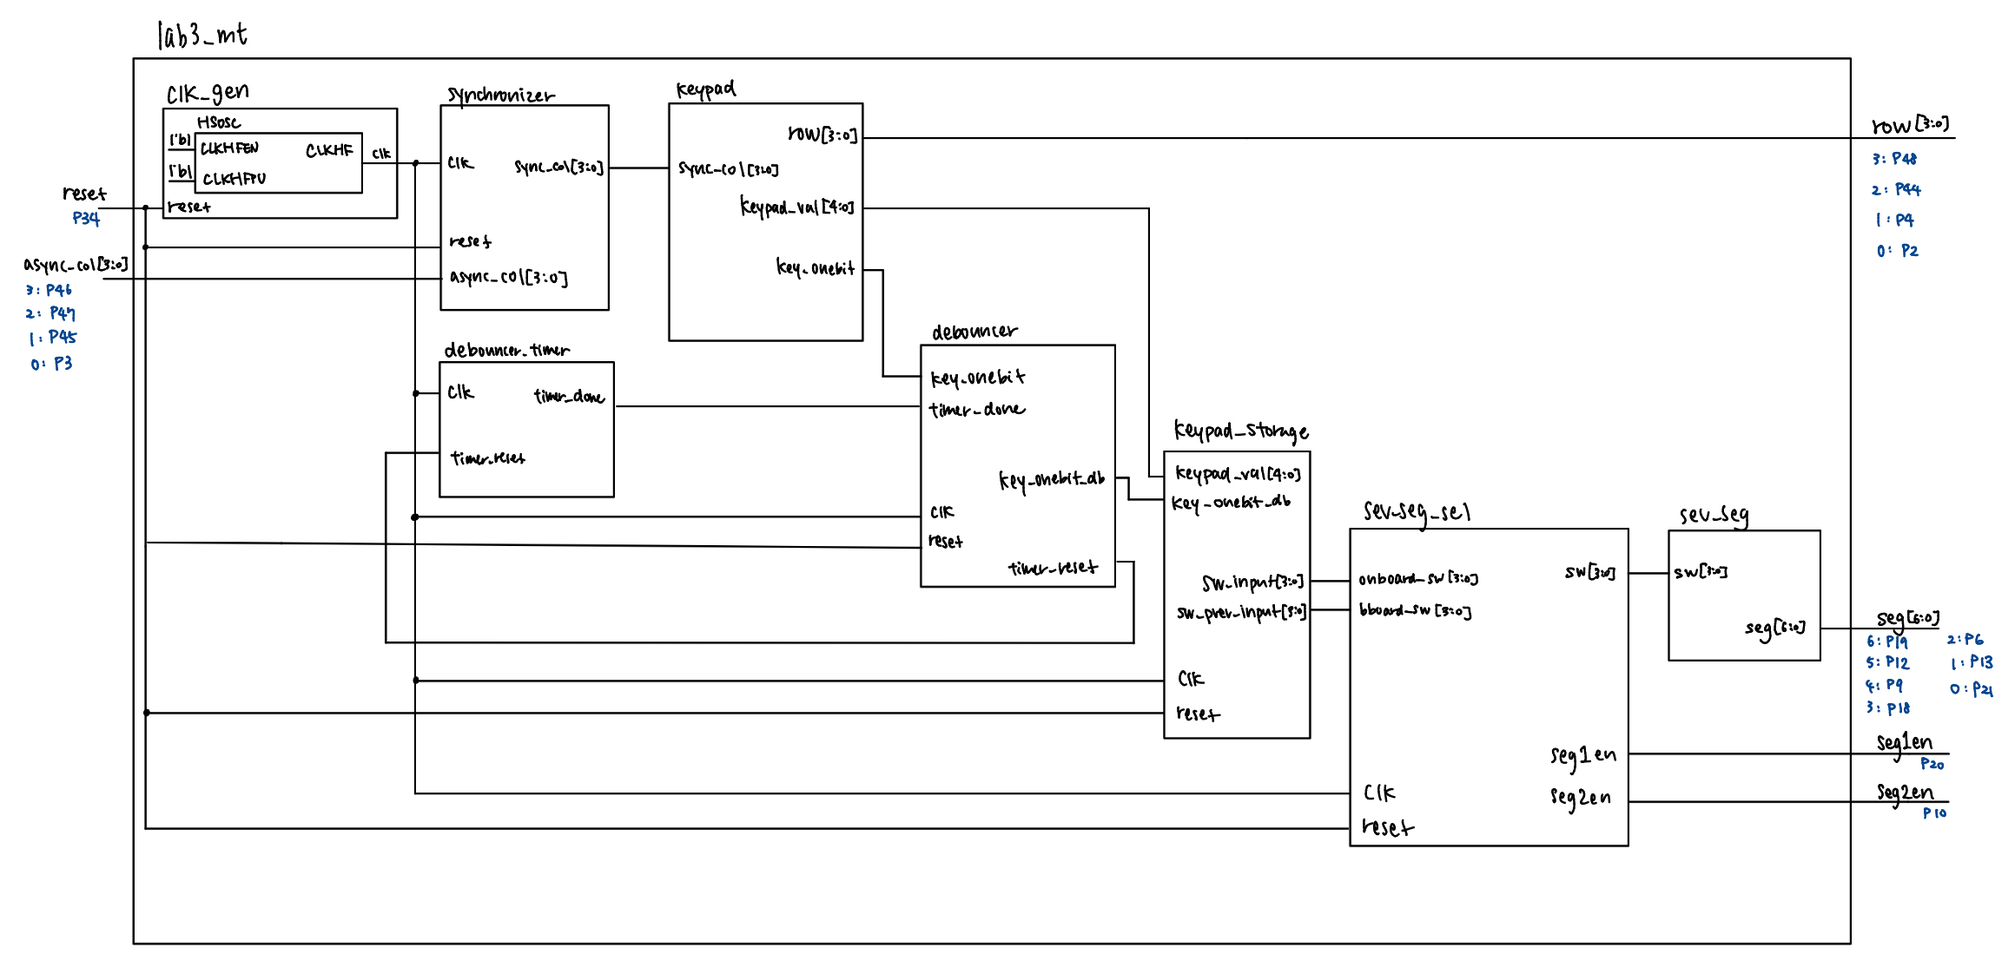
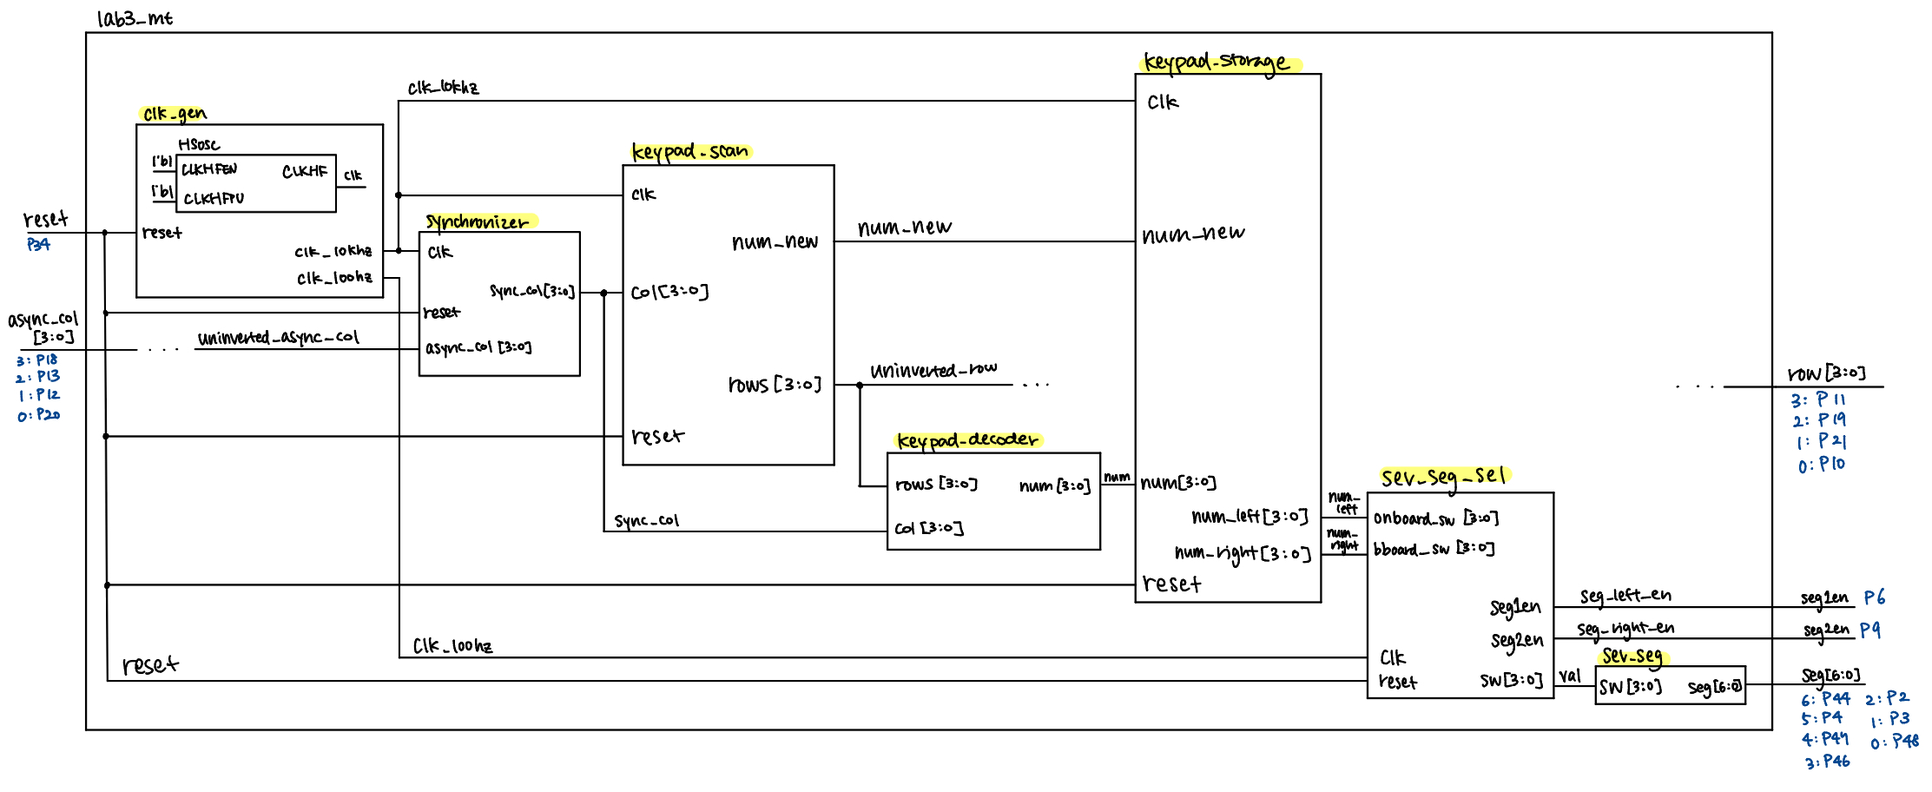
Built site for gh-pages

Changed region(s): [[0.0, 0.0, 0.9924, 0.9825], [0.6822, 0.4912, 0.7443, 0.5526]]

diff --git a/labs/lab3/lab3.html b/labs/lab3/lab3.html
@@ -7,7 +7,7 @@
 <meta name="viewport" content="width=device-width, initial-scale=1.0, user-scalable=yes">
 
 <meta name="author" content="Mayu Tatsumi">
-<meta name="dcterms.date" content="2025-09-24">
+<meta name="dcterms.date" content="2024-11-05">
 <meta name="description" content="Lab 3">
 
 <title>Lab 3: Keypad Scanner – E155 Portfolio</title>
@@ -166,6 +166,7 @@ window.Quarto = {
   </ul></li>
   <li><a href="#conclusion" id="toc-conclusion" class="nav-link" data-scroll-target="#conclusion">Conclusion</a></li>
   <li><a href="#ai-prototype-summary" id="toc-ai-prototype-summary" class="nav-link" data-scroll-target="#ai-prototype-summary">AI Prototype Summary</a></li>
+  <li><a href="#initial-attempt" id="toc-initial-attempt" class="nav-link" data-scroll-target="#initial-attempt">Initial Attempt</a></li>
   </ul>
 </nav>
     </div>
@@ -199,7 +200,7 @@ window.Quarto = {
     <div>
     <div class="quarto-title-meta-heading">Published</div>
     <div class="quarto-title-meta-contents">
-      <p class="date">September 24, 2025</p>
+      <p class="date">November 5, 2024</p>
     </div>
   </div>
   
@@ -219,24 +220,97 @@ window.Quarto = {
 </section>
 <section id="design-and-testing-methodology" class="level2">
 <h2 class="anchored" data-anchor-id="design-and-testing-methodology">Design and Testing Methodology</h2>
-<p>Theoretically, the matrix keypad was read by sending high signals to each of its four rows, and reading the outputs of each column to determine what button was being pressed. The asynchronous user inputs were synchronized to the program clk by a synchronizer, and “read” using a finite state machine (FSM). The keypad reading also output a strobe-like wire, which was the input for the debouncer. Debouncing was utilized to prevent misreading of mechanical switches, and was also implemented as an FSM. Both the debouncer output and the value read off the keypad were combined to store previous and current input values of the matrix in a D flip-flop. The seven-segment display code was reused from last lab to drive the display.</p>
-<p>The FSM for the keypad was designed as so. There were 20 states, 4 for reading a row each, and 16 for each key press. With no user input, the FSM is supposed to cycle through the row-checking states, which each send out a specific <code>row</code> output to check if any of the switches are ON. This checking was done via the <code>col</code> inputs, where any value of <code>col</code> that was found to be high would immediately move the FSM to the key-pressed state attributed to the specific key press. Any release of the key returns it to the scanning mode, cycling through the 4 states.</p>
+<p>The main FSM (in <code>keypad_scan</code> module) scans the 4x4 matrix keypad and also includes debouncing logic. It cycles through the rows by sequentially driving the rows output high one at a time via the states <code>S1_R0</code> to <code>S4_R3</code>. After selecting a row, it enters a corresponding check state (<code>S5_CHECK_R0</code> to <code>S8_CHECK_R3</code>) where it examines the <code>col</code> input lines to detect if any key in that row is pressed.</p>
+<p>A <code>counter</code> is used to enforce a short <code>SCAN_DELAY</code> between row scans. If a column input is detected, the FSM moves to the <code>S9_CHECKING</code> state, where it waits for <code>DEBOUNCE</code> clock cycles to ensure the key press is stable. Once confirmed, the FSM transitions to <code>S10_PRESSED</code>, generating a one-cycle pulse <code>num_new</code> to signal a newly pressed key. Then, it enters the <code>S11_WAIT</code> state, using <code>HOLD_TIME</code> with the <code>counter</code> to wait for the key to be released before returning to S0_IDLE.</p>
+<p>The <code>rows</code> register is updated via <code>newRows</code> when <code>rowChange</code> is asserted, and the <code>increment</code> and <code>clear</code> signals control the <code>counter</code> for timing across the scan, debounce, and hold states.</p>
+<p>The <code>keypad_scan</code> design combines row scanning, key detection, and debouncing into a single FSM, making it resource-efficient and better synchronized, but is less modular and with increased complexity. In contrast, my initial design of splitting the scanner/decoder and debouncing FSMs into two separates debouncing from key decoding, improving modularity and flexibility in debounce timing, but it uses more hardware and requires more attention regarding timing for accurate key detection.</p>
 <div class="quarto-figure quarto-figure-center">
 <figure class="figure">
-<p><img src="images/lab3-keypad-fsm.jpg" class="img-fluid figure-img"></p>
-<figcaption>Figure 1: FSM diagram of <code>keypad</code></figcaption>
+<p><img src="images/lab3-fsm.jpg" class="img-fluid figure-img"></p>
+<figcaption>Figure 1: FSM of the keypad-scan module</figcaption>
 </figure>
 </div>
-<p>The FSM for the debouncer was designed with a 10ms delay, making sure that there was a solid 10ms button press before sending a concrete signal to the rest of the system. It utilizes 4 states. It starts in the waiting-at-0 state, where the FSM waits for any input of 1 to move it out to the checking-for-1 state. The waiting-at-0 state also continuously outputs a <code>timer_reset</code> signal to the external 10ms timer, since no input is detected as of now. When some switch bounce or user input drives the switch to 1, we move to the checking-for-1, which starts the external timer by driving <code>timer_reset = 0</code> and makes sure that any discontinuous input of 1 moves the machine back to the waiting-at-0 state. If the input is continuous for over 10ms, when the <code>timer_done</code> is driven high from the external timer, then the output of this debouncer FSM is driven high as well to signify a debounced signal.</p>
-<div class="quarto-figure quarto-figure-center">
-<figure class="figure">
-<p><img src="images/lab3-debouncer-fsm.jpg" class="img-fluid figure-img"></p>
-<figcaption>Figure 2: FSM diagram of <code>debouncer</code></figcaption>
-</figure>
-</div>
+<table class="caption-top table">
+<caption>FSM State Transition Table {#transition-tbl}</caption>
+<colgroup>
+<col style="width: 7%">
+<col style="width: 32%">
+<col style="width: 60%">
+</colgroup>
+<thead>
+<tr class="header">
+<th style="text-align: center;">state</th>
+<th style="text-align: center;">output</th>
+<th style="text-align: center;">nextstate</th>
+</tr>
+</thead>
+<tbody>
+<tr class="odd">
+<td style="text-align: center;">S0_IDLE</td>
+<td style="text-align: center;"><code>clear</code> = 1</td>
+<td style="text-align: center;">S1_R0</td>
+</tr>
+<tr class="even">
+<td style="text-align: center;">S1_R0</td>
+<td style="text-align: center;"><code>newRows</code> = 4’b0001<br><code>rowChange</code> = 1<br><code>clear</code> = 1</td>
+<td style="text-align: center;">S5_CHECK_R0</td>
+</tr>
+<tr class="odd">
+<td style="text-align: center;">S2_R1</td>
+<td style="text-align: center;"><code>newRows</code> = 4’b0010<br><code>rowChange</code> = 1<br><code>clear</code> = 1</td>
+<td style="text-align: center;">S6_CHECK_R1</td>
+</tr>
+<tr class="even">
+<td style="text-align: center;">S3_R2</td>
+<td style="text-align: center;"><code>newRows</code> = 4’b0100<br><code>rowChange</code> = 1<br><code>clear</code> = 1</td>
+<td style="text-align: center;">S7_CHECK_R2</td>
+</tr>
+<tr class="odd">
+<td style="text-align: center;">S4_R3</td>
+<td style="text-align: center;"><code>newRows</code> = 4’b1000<br><code>rowChange</code> = 1<br><code>clear</code> = 1</td>
+<td style="text-align: center;">S8_CHECK_R3</td>
+</tr>
+<tr class="even">
+<td style="text-align: center;">S5_CHECK_R0</td>
+<td style="text-align: center;"><code>increment</code> = 1</td>
+<td style="text-align: center;"><code>|col</code>: S9_CHECKING<br><code>counter &gt;= SCAN_DELAY</code>: S2_R1<br>S5_CHECK_R0</td>
+</tr>
+<tr class="odd">
+<td style="text-align: center;">S6_CHECK_R1</td>
+<td style="text-align: center;"><code>increment</code> = 1</td>
+<td style="text-align: center;"><code>|col</code>: S9_CHECKING<br><code>counter &gt;= SCAN_DELAY</code>: S3_R2<br>S6_CHECK_R1</td>
+</tr>
+<tr class="even">
+<td style="text-align: center;">S7_CHECK_R2</td>
+<td style="text-align: center;"><code>increment</code> = 1</td>
+<td style="text-align: center;"><code>|col</code>: S9_CHECKING<br><code>counter &gt;= SCAN_DELAY</code>: S4_R3<br>S7_CHECK_R2</td>
+</tr>
+<tr class="odd">
+<td style="text-align: center;">S8_CHECK_R3</td>
+<td style="text-align: center;"><code>increment</code> = 1</td>
+<td style="text-align: center;"><code>|col</code>: S9_CHECKING<br><code>counter &gt;= SCAN_DELAY</code>: S1_R0<br>S8_CHECK_R3</td>
+</tr>
+<tr class="even">
+<td style="text-align: center;">S9_CHECKING</td>
+<td style="text-align: center;"><code>increment</code> = 1</td>
+<td style="text-align: center;"><code>counter &gt;= DEBOUNCE &amp;&amp; |col</code>: S10_PRESSED<br><code>counter &gt;= DEBOUNCE &amp;&amp; ~|col</code>: S0_IDLE<br>S9_CHECKING</td>
+</tr>
+<tr class="odd">
+<td style="text-align: center;">S10_PRESSED</td>
+<td style="text-align: center;"><code>num_new</code> = 1</td>
+<td style="text-align: center;">S11_WAIT</td>
+</tr>
+<tr class="even">
+<td style="text-align: center;">S11_WAIT</td>
+<td style="text-align: center;"><code>increment</code> = 1</td>
+<td style="text-align: center;"><code>~|col &amp;&amp; counter &gt;= HOLD_TIME</code>: S0_IDLE<br>S11_WAIT</td>
+</tr>
+</tbody>
+</table>
+<p>Internal pull-up resistors were utilized to prevent floating values on the asynchronous column inputs of the 4x4 matrix keypad. These created an active-low standard in the HDL.</p>
+<p>These physical features below were derived in the earlier Lab 2, but here is the calculations for them as well:</p>
 <p>The PNP transistor was utilized to source more current for the dual seven-segment display. With only a 8 mA current being sourced from each pin, it was not enough to power each cathode. As a result, the PNP transistors, given a 5 mA current from the base, or the pins, collected from the 3.3V voltage source and pulled a current enough to power the seven-segment display. The 5 mA current at the base was regulated by a resistor of 560 <span class="math inline">\(\,\Omega\)</span>. This was calculated via Ohm’s Law, <span class="math inline">\(V = IR\)</span>, where the voltage drop was calculated by <span class="math inline">\(2.6 - 0\)</span>. The <span class="math inline">\(2.6 V\)</span> was found by negating the voltage drop from the 3.3 V emitter to the base, as given by <span class="math inline">\(V_{BE(Sat)}\)</span> from the datasheet. The <span class="math inline">\(0 V\)</span> was so due to the pin it connected to was grounded. As a result, <span class="math inline">\((2.6 - 0) / 0.05 = 520\,\Omega\)</span>, and the resistor used was a similar 510 <span class="math inline">\(\,\Omega\)</span>. The datasheet mentioned is <a href="https://hmc-e155.github.io/assets/doc/2N3906-D.pdf">linked here</a>.</p>
 <p>The resistors for each segment of the red dual seven-segment display were chosen based on the datasheet <a href="https://docs.broadcom.com/doc/HDSP-521A-523A-Dual-Digit-General-Purpose-7-Segment-Display-DS">linked here</a>. Around a forward current of 5mA, the forward voltage of each LED segment drops down to 1.8V. Due to the <span class="math inline">\(V_{CE(Sat)} = 0.7\)</span> at a current of 1 mA, there was a voltage drop from the emitter to the collector, resulting in the collector being at roughly 3 V. Knowing this, we can reconfigure Ohm’s Law to figure out the appropriate resistor. <span class="math inline">\(R = V/I = (3.0 - 1.8) / 0.002 = 600\)</span>, or roughly 620 <span class="math inline">\(\,\Omega\)</span>.</p>
-<p>Pull-down resistors were utilized to prevent floating values of <code>col</code> when the matrix keypad’s buttons were not pressed. The value of the resistors were found by calculating a simple <span class="math inline">\(V=IR\)</span> equation where <span class="math inline">\(V=3.3V\)</span> and <span class="math inline">\(I=3mA\)</span>, and its output was <span class="math inline">\(I=1.1k\,\Omega\)</span>. 1.2k<span class="math inline">\(\,\Omega\)</span> resistors were used for each column output.</p>
 </section>
 <section id="technical-documentation" class="level2">
 <h2 class="anchored" data-anchor-id="technical-documentation">Technical Documentation</h2>
@@ -246,62 +320,74 @@ window.Quarto = {
 <div class="quarto-figure quarto-figure-center">
 <figure class="figure">
 <p><img src="images/lab3-block.jpg" class="img-fluid figure-img"></p>
-<figcaption>Figure 3: Block diagram of the Lab 3 HDL code</figcaption>
+<figcaption>Figure 2: Block diagram of the Lab 3 HDL code</figcaption>
 </figure>
 </div>
-<p>Figure 3 depicts the block diagram of the design. The top-level module <code>lab3_mt</code> instantiates eight submodules within it. <code>clk_gen</code> houses the <code>clk</code> generation using the onboard high-speed oscillator through the <code>HSOSC</code> module and a counter to divide it down to 100 Hz. The <code>synchronizer</code> instantiates a simple two-stage flip flop to synchronize the asynchronous column inputs into <code>sync_col</code>. The <code>keypad</code> interacts with the external keypad, sending signals through <code>row</code> as an output and intaking <code>col</code> to determine the number being pressed, if at all, and to output a strobe <code>key_onebit</code> that signals a button being pressed. The strobe is then passed into the <code>debouncer</code>, which uses an external timer module <code>debouncer_timer</code> to create a 10ms delay to determine a true key press. This information and the key pressed information is then passed into <code>keypad_storage</code>, where the last input is stored as well, using a D-flip flop. These two values utilize the <code>sev_seg_sel</code> and <code>sev_seg</code> modules written for lab 1 and 2 to display the values onto a dual seven segment display.</p>
+<p>Figure 3 depicts the block diagram of the design. The top-level module <code>lab3_mt</code> instantiates eight submodules within it. <code>clk_gen</code> houses the clock generation using the onboard high-speed oscillator through the HSOSC module and a counter to divide it down to both 10 kHz and 100 Hz. The <code>synchronizer</code> instantiates a simple two-stage flip-flop to synchronize the asynchronous column inputs into <code>sync_col</code>. <code>sync_col</code> is then passed into the <code>keypad</code> submodules, which include <code>keypad_scan</code>, <code>keypad_decoder</code>, and <code>keypad_storage</code>. The <code>keypad_scan</code> module drives each of the rows and detects any key presses, generating a one-cycle pulse <code>num_new</code> for each newly pressed key. The <code>keypad_decoder</code> module uses combinational logic to translate the active row and column into a 4-bit key value, while <code>keypad_storage</code> records the most recent and previous key presses using D-flip-flops. These stored values are then sent to the <code>sev_seg_sel</code> and <code>sev_seg</code> modules (written for Labs 1 and 2), which multiplex and convert the 4-bit values into 2 seven-segment displays, allowing both the current and previous key presses to be displayed.</p>
 </section>
 <section id="schematic" class="level3">
 <h3 class="anchored" data-anchor-id="schematic">Schematic</h3>
 <div class="quarto-figure quarto-figure-center">
 <figure class="figure">
 <p><img src="images/lab3-schem.jpg" class="img-fluid figure-img"></p>
-<figcaption>Figure 4: Schematic of the external hardware used for Lab 3</figcaption>
+<figcaption>Figure 3: Schematic of the external hardware used for Lab 3</figcaption>
 </figure>
 </div>
-<p>Figure 4 depicts the physical schematic of the design. The almost all I/O pins were utilized. As usual, the reset was routed to a button on the board. Same as last lab, each cathode segment of the dual seven-segment display was connected to a pin, and the two common anodes of the display were connected from a source-generating PNP transistor, which were also connected to a pin each on the FPGA. Those pins were enabled and disabled by the <code>seg1en</code> and <code>seg2en</code> enable signals. The <code>row</code> outputs and <code>col</code> inputs of the 4x4 matrix keypad were each assigned to a pin, with 1.2k<span class="math inline">\(\,\Omega\)</span> pulldown resistors to prevent floating zeros on the inputs.</p>
+<p>Figure 4 depicts the physical schematic of the design. The almost all I/O pins were utilized. Same as Lab 2, each cathode segment of the dual seven-segment display was connected to a pin, and the two common anodes of the display were connected from a source-generating PNP transistor, which were also connected to a pin each on the FPGA. Those pins were enabled and disabled by the <code>seg1en</code> and <code>seg2en</code> enable signals. The 4-bit <code>row</code> outputs and <code>async_col</code> inputs of the 4x4 matrix keypad were each assigned to a pin, with the <code>async_col</code> values connected to 6.8k<span class="math inline">\(\,\Omega\)</span> internal pullup resistors, specified in Lattice.</p>
 </section>
 </section>
 <section id="results-and-discussion" class="level2">
 <h2 class="anchored" data-anchor-id="results-and-discussion">Results and Discussion</h2>
 <section id="testbench-simulation" class="level3">
 <h3 class="anchored" data-anchor-id="testbench-simulation">Testbench Simulation</h3>
-<p>The design did not meet intended design objectives.</p>
+<p>The design did met all intended design objectives, and behaves as expected under testbench testing.</p>
 <div class="quarto-figure quarto-figure-center">
 <figure class="figure">
 <p><img src="images/lab3-clk-gen-waves.png" class="img-fluid figure-img"></p>
-<figcaption>Figure 5: Waveforms made by clk_gen testbench</figcaption>
+<figcaption>Figure 4: Waveforms made by clk_gen testbench</figcaption>
 </figure>
 </div>
 <div class="quarto-figure quarto-figure-center">
 <figure class="figure">
-<p><img src="images/lab3-keypad-waves.png" class="img-fluid figure-img"></p>
-<figcaption>Figure 6: Waveforms made by keypad testbench</figcaption>
+<p><img src="images/lab3-synchronizer-waves.png" class="img-fluid figure-img"></p>
+<figcaption>Figure 5: Waveforms made by synchronizer testbench</figcaption>
 </figure>
 </div>
 <div class="quarto-figure quarto-figure-center">
 <figure class="figure">
-<p><img src="images/lab3-debouncer-timer-waves.png" class="img-fluid figure-img"></p>
-<figcaption>Figure 7: Waveforms made by debouncer_timer testbench</figcaption>
+<p><img src="images/lab3-keypad-scan-waves.png" class="img-fluid figure-img"></p>
+<figcaption>Figure 6: Waveforms made by keypad_scan testbench</figcaption>
+</figure>
+</div>
+<div class="quarto-figure quarto-figure-center">
+<figure class="figure">
+<p><img src="images/lab3-keypad-decoder-results.png" class="img-fluid figure-img"></p>
+<figcaption>Figure 7: Output from keypad_decoder testbench</figcaption>
+</figure>
+</div>
+<div class="quarto-figure quarto-figure-center">
+<figure class="figure">
+<p><img src="images/lab3-keypad-storage-waves.png" class="img-fluid figure-img"></p>
+<figcaption>Figure 8: Waveforms made by keypad_storage testbench</figcaption>
 </figure>
 </div>
 <div class="quarto-figure quarto-figure-center">
 <figure class="figure">
 <p><img src="images/lab3-sev-seg-sel-waves.png" class="img-fluid figure-img"></p>
-<figcaption>Figure 8: Waveforms made by sev_seg_sel testbench</figcaption>
+<figcaption>Figure 9: Waveforms made by sev_seg_sel testbench</figcaption>
 </figure>
 </div>
 <div class="quarto-figure quarto-figure-center">
 <figure class="figure">
 <p><img src="images/lab3-sev-seg-waves.png" class="img-fluid figure-img"></p>
-<figcaption>Figure 9: Waveforms made by sev_seg testbench</figcaption>
+<figcaption>Figure 10: Waveforms made by sev_seg testbench</figcaption>
 </figure>
 </div>
 </section>
 </section>
 <section id="conclusion" class="level2">
 <h2 class="anchored" data-anchor-id="conclusion">Conclusion</h2>
-<p>The design made in this lab was not successful. Most of my time was spent trying to debug a segmentation-violation error that came up on Lattice during synthesis. In the end, I swtiched to Synplify Pro synthesizer under direction of Kavi, who was unable to solve the issue as well. The biggest issue I found with the design was with the <code>keypad</code> FSM. No matter what, the FSM refued to move to the next reading state, only ever sending a signal to Row 0. As a result of that and probably some other issues I wasn’t able to get a good look at, the seven-segment display wouldn’t change to any other value, outside of the default 0 value. 30 hours were spent on this lab.</p>
+<p>The design made in this lab was successful. After my initial failure, I completely redid my FSM, combining the two into one since I felt like that the interaction between the two FSMs was difficult to parse and debug. One of the reasons I had a difficult time getting this lab to work in the initial time allotted was bcause most of my time was spent trying to debug a segmentation-violation error that came up on Lattice during synthesis. In the end, I swtiched to Synplify Pro synthesizer under direction of TA Kavi, who was unable to solve the issue as well. Through this learning process, I learned how to design more robust FSMs and debug active-low/active-high systems. Overall, I was able to drive a dual seven-segment matrix given inputs from a 4x4 matrix keypad and display the most recent and the last key value pressed. 30 hours were spent on this lab, along with roughly 20 hours for the redo (so 50 total).</p>
 </section>
 <section id="ai-prototype-summary" class="level2">
 <h2 class="anchored" data-anchor-id="ai-prototype-summary">AI Prototype Summary</h2>
@@ -342,9 +428,24 @@ window.Quarto = {
 <p>Regarding the output, I found the naming conventions interesting and the header comment as well. There wasn’t any difficulties understanding the syntax, other than some of the flop conventions that the LLM produced. As an LLM with little context, however, it seems like it is unable to grasp how and why the final error popped up, and was unable to fix it. As a result, I would rate this module a 6/10. I think the concepts and the structure of the module work fine, but it isn’t synthesizable at all and has issues when interacting with the rest of the project.</p>
 <p>As a result of these LLM outputs, I haven’t changed my stance on using LLMs for these projects. I could probably use it to help write common and/or redundant idioms. However, I am still uncertain of its ability to use external contexts and provide a synthesizable and working module, especially regarding redundant and duplicate content. While coding, it may be a good idea to consult the LLM to figure out reference idioms and removing small bugs and typos, but not good enough to completely generate any program.</p>
 </section>
-
-
 </div>
+</section>
+<section id="initial-attempt" class="level2">
+<h2 class="anchored" data-anchor-id="initial-attempt">Initial Attempt</h2>
+<div class="quarto-figure quarto-figure-center">
+<figure class="figure">
+<p><img src="images/lab3-keypad-fsm.jpg" class="img-fluid figure-img"></p>
+<figcaption>Figure 11: Decoding FSM</figcaption>
+</figure>
+</div>
+<div class="quarto-figure quarto-figure-center">
+<figure class="figure">
+<p><img src="images/lab3-debouncer-fsm.jpg" class="img-fluid figure-img"></p>
+<figcaption>Figure 12: Debouncing FSM</figcaption>
+</figure>
+</div>
+
+
 </section>
 
 </main> <!-- /main -->
